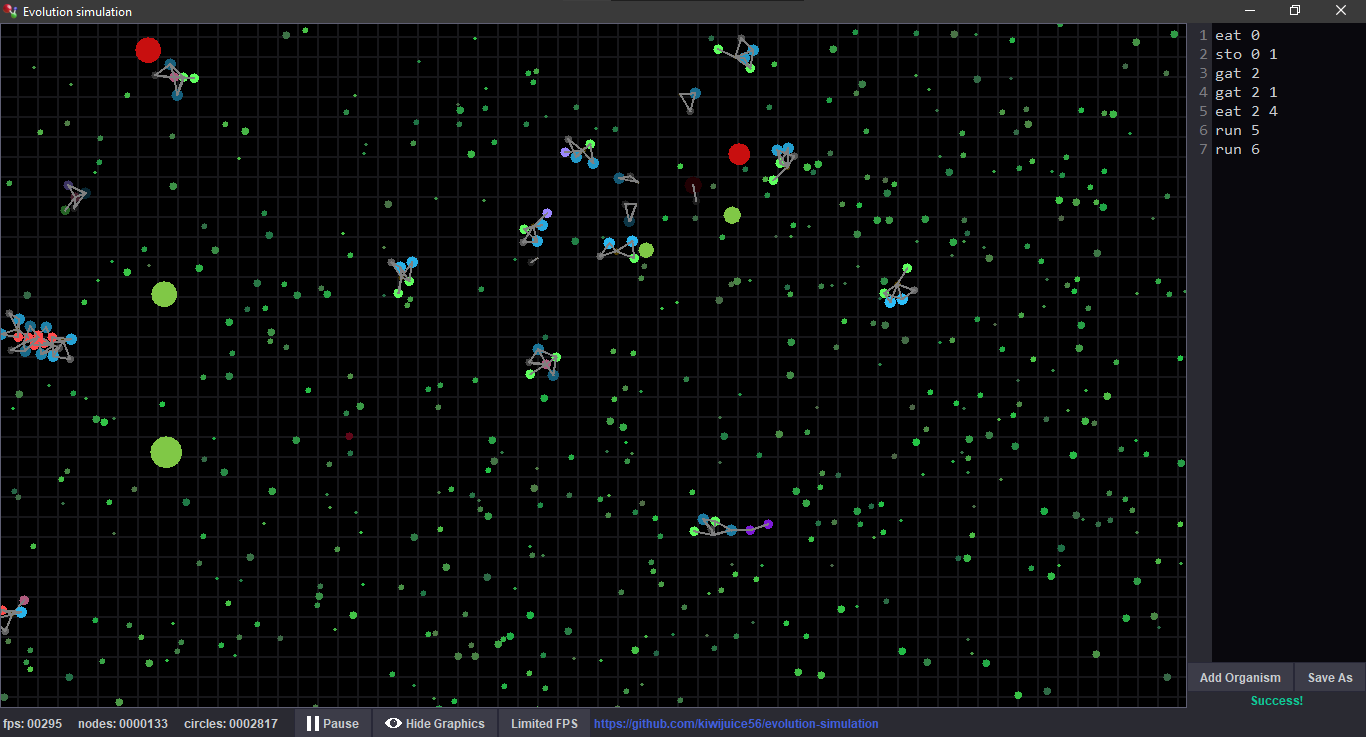
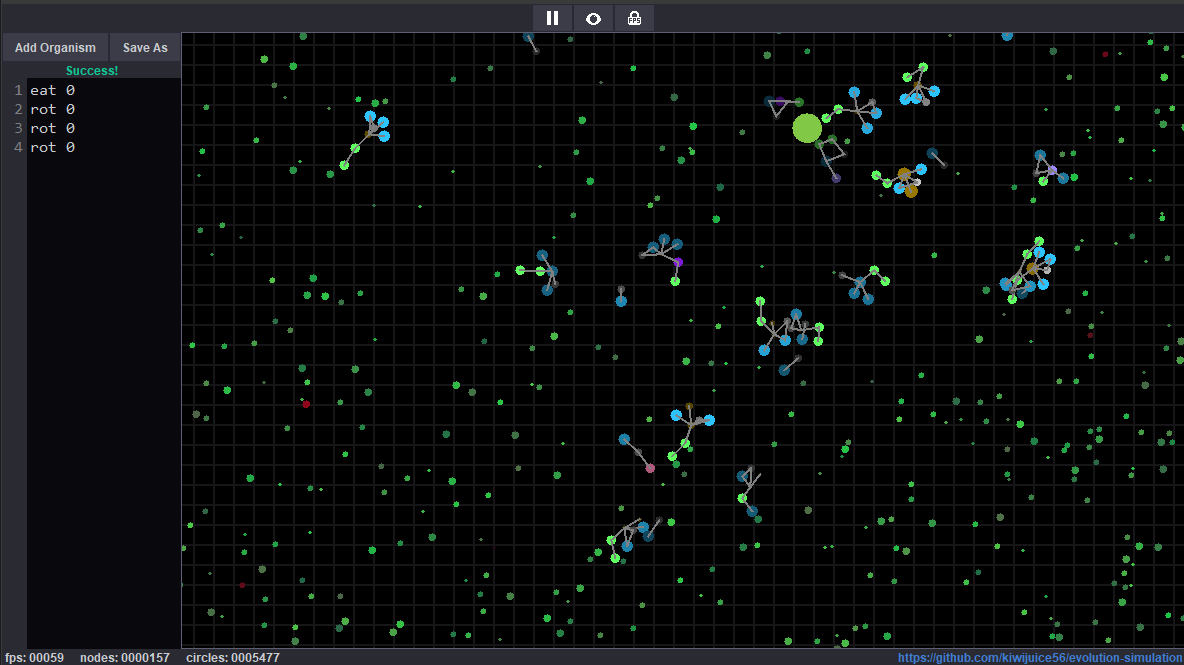
Updated UI and FPS

Changed region(s): [[0.0, 0.0, 1.0, 1.0], [0.9688, 0.5113, 1.0, 0.5414], [0.9375, 0.812, 0.9688, 0.8421]]

diff --git a/src/graphic_interface/ApplicationFrame.java b/src/graphic_interface/ApplicationFrame.java
@@ -13,6 +13,7 @@ import java.io.IOException;
 import java.net.URI;
 import java.net.URISyntaxException;
 import java.util.Arrays;
+import java.util.Objects;
 
 /**
  * Contains all GUI for the program
@@ -43,19 +44,67 @@ public class ApplicationFrame extends JFrame  {
 		GridPanel panel = new GridPanel(grid);
 		getContentPane().add(panel, BorderLayout.CENTER);
 
+		getContentPane().add(createTopPanel(), BorderLayout.NORTH);
 		getContentPane().add(createBottomPanel(), BorderLayout.SOUTH);
 
-		getContentPane().add(new OrganismCreator(panel, sim, grid), BorderLayout.EAST);
+		getContentPane().add(new OrganismCreator(panel, sim, grid), BorderLayout.WEST);
 
 		setSize(1200, 700);
 		setVisible(true);
 	}
 
 	/**
-	 * Initializes bottom panel and all associated labels and buttons
+	 * Initializes top panel and all associated buttons
 	 * @return the initialized panel
 	 */
-	private JPanel createBottomPanel() throws IOException {
+	private JPanel createTopPanel() throws IOException {
+		JPanel topPanel = new JPanel();
+		topPanel.setLayout(new BoxLayout(topPanel, BoxLayout.X_AXIS));
+		topPanel.setBackground(new Color(42, 42, 50));
+
+		topPanel.add(Box.createHorizontalGlue());
+
+		Icon playIcon = new ImageIcon(ImageIO.read(Objects.requireNonNull(ApplicationFrame.class.getResource("/play.png"))));
+		Icon pauseIcon = new ImageIcon(ImageIO.read(Objects.requireNonNull(ApplicationFrame.class.getResource("/pause.png"))));
+		DarkJButton pauseButton = new DarkJButton("");
+		pauseButton.setIcon(pauseIcon);
+		pauseButton.addActionListener(e -> {
+			pauseButton.setIcon(isPaused() ? pauseIcon : playIcon);
+			setPaused(!isPaused());
+		});
+		topPanel.add(pauseButton);
+
+		Icon visibleIcon = new ImageIcon(ImageIO.read(Objects.requireNonNull(ApplicationFrame.class.getResource("/visible.png"))));
+		Icon hiddenIcon = new ImageIcon(ImageIO.read(Objects.requireNonNull(ApplicationFrame.class.getResource("/hidden.png"))));
+		DarkJButton graphicsToggle = new DarkJButton("");
+		graphicsToggle.setIcon(visibleIcon);
+
+		graphicsToggle.addActionListener(e -> {
+			graphicsToggle.setIcon(isGraphicsActive() ? hiddenIcon : visibleIcon);
+			setGraphicsActive(!isGraphicsActive());
+		});
+		topPanel.add(graphicsToggle);
+
+		Icon fpsLockedIcon = new ImageIcon(ImageIO.read(Objects.requireNonNull(ApplicationFrame.class.getResource("/fps_locked.png"))));
+		Icon fpsUnlockedIcon = new ImageIcon(ImageIO.read(Objects.requireNonNull(ApplicationFrame.class.getResource("/fps_unlocked.png"))));
+		DarkJButton fpsToggle = new DarkJButton("");
+		fpsToggle.setIcon(fpsLockedIcon);
+		fpsToggle.addActionListener(e -> {
+			fpsToggle.setIcon(isLimitedFPS() ? fpsUnlockedIcon : fpsLockedIcon);
+			setLimitedFPS(!isLimitedFPS());
+		});
+		topPanel.add(fpsToggle);
+
+		topPanel.add(Box.createHorizontalGlue());
+
+		return topPanel;
+	}
+
+	/**
+	 * Initializes bottom panel and all associated labels
+	 * @return the initialized panel
+	 */
+	private JPanel createBottomPanel() {
 		JPanel bottomPanel = new JPanel();
 		bottomPanel.setLayout(new BoxLayout(bottomPanel, BoxLayout.X_AXIS));
 		bottomPanel.setBackground(new Color(42, 42, 50));
@@ -75,53 +124,9 @@ public class ApplicationFrame extends JFrame  {
 		circleLabel.setBorder(new EmptyBorder(0,0,0,16));
 		bottomPanel.add(circleLabel);
 
-		Icon playIcon = new ImageIcon(ImageIO.read(ApplicationFrame.class.getResource("/pause.png")));
-		Icon pauseIcon = new ImageIcon(ImageIO.read(ApplicationFrame.class.getResource("/pause2.png")));
-		DarkJButton pauseButton = new DarkJButton("Pause");
-		pauseButton.setIcon(pauseIcon);
-		pauseButton.addActionListener(e -> {
-			if (e.getActionCommand().equals("Pause")) {
-				ApplicationFrame.this.setPaused(true);
-				pauseButton.setIcon(playIcon);
-				pauseButton.setText("Play");
-			} else if (e.getActionCommand().equals("Play")) {
-				ApplicationFrame.this.setPaused(false);
-				pauseButton.setIcon(pauseIcon);
-				pauseButton.setText("Pause");
-			}
-		});
-		bottomPanel.add(pauseButton);
+		bottomPanel.add(Box.createHorizontalGlue());
 
-		Icon visibleIcon = new ImageIcon(ImageIO.read(ApplicationFrame.class.getResource("/visible.png")));
-		Icon hiddenIcon = new ImageIcon(ImageIO.read(ApplicationFrame.class.getResource("/hidden.png")));
-		DarkJButton graphicsToggle = new DarkJButton("Hide Graphics");
-		graphicsToggle.setIcon(visibleIcon);
-		graphicsToggle.addActionListener(e -> {
-			if (e.getActionCommand().equals("Hide Graphics")) {
-				graphicsToggle.setIcon(hiddenIcon);
-				ApplicationFrame.this.setGraphicsActive(false);
-				graphicsToggle.setText("Show Graphics");
-			} else if (e.getActionCommand().equals("Show Graphics")) {
-				graphicsToggle.setIcon(visibleIcon);
-				ApplicationFrame.this.setGraphicsActive(true);
-				graphicsToggle.setText("Hide Graphics");
-			}
-		});
-		bottomPanel.add(graphicsToggle);
-
-		DarkJButton fpsToggle = new DarkJButton("Unlimited FPS");
-		fpsToggle.addActionListener(e -> {
-			if (e.getActionCommand().equals("Unlimited FPS")) {
-				ApplicationFrame.this.setLimitedFPS(false);
-				fpsToggle.setText("Limited FPS");
-			} else if (e.getActionCommand().equals("Limited FPS")) {
-				ApplicationFrame.this.setLimitedFPS(true);
-				fpsToggle.setText("Unlimited FPS");
-			}
-		});
-		bottomPanel.add(fpsToggle);
-
-		JLabel link = new JLabel(" https://github.com/kiwijuice56/evolution-simulation");
+		JLabel link = new JLabel(" https://github.com/kiwijuice56/evolution-simulation ");
 		link.setCursor(Cursor.getPredefinedCursor(Cursor.HAND_CURSOR));
 		link.setForeground(new Color(65,125,210));
 		link.addMouseListener(new MouseAdapter() {

diff --git a/src/graphic_interface/OrganismCreator.java b/src/graphic_interface/OrganismCreator.java
@@ -40,6 +40,13 @@ public class OrganismCreator extends JPanel {
 		setLayout(new BoxLayout(this, BoxLayout.Y_AXIS));
 		setBackground(new Color(42, 42, 50));
 
+		add(createEditorButtons());
+
+		errorLabel = new JLabel("Type an organism code");
+		errorLabel.setForeground(new Color(200, 203, 207));
+		errorLabel.setAlignmentX(CENTER_ALIGNMENT);
+		add(errorLabel);
+
 		text = new JTextPane();
 		text.setFont(new Font("Consolas", Font.PLAIN, 16));
 		text.setEditable(true);
@@ -59,12 +66,9 @@ public class OrganismCreator extends JPanel {
 		SimpleAttributeSet attrs = new SimpleAttributeSet();
 		StyleConstants.setForeground(attrs, new Color(200, 203, 207));
 
-		Runnable removeError = new Runnable() {
-			@Override
-			public void run() {
-				errorLabel.setText(" ");
-				text.getStyledDocument().setCharacterAttributes(0, text.getText().length()+1, attrs, true);
-			}
+		Runnable removeError = () -> {
+			errorLabel.setText(" ");
+			text.getStyledDocument().setCharacterAttributes(0, text.getText().length()+1, attrs, true);
 		};
 		text.getDocument().addDocumentListener(new DocumentListener() {
 			@Override
@@ -91,13 +95,6 @@ public class OrganismCreator extends JPanel {
 			}
 		});
 		text.setText("nod 0");
-
-		add(createEditorButtons());
-
-		errorLabel = new JLabel("Type an organism code");
-		errorLabel.setForeground(new Color(200, 203, 207));
-		errorLabel.setAlignmentX(CENTER_ALIGNMENT);
-		add(errorLabel);
 	}
 
 	/**

diff --git a/src/biotic/organic_nodes/RotationalNode.java b/src/biotic/organic_nodes/RotationalNode.java
@@ -8,8 +8,8 @@ import java.awt.Color;
  * Rotates randomly in all directions
  */
 public class RotationalNode extends OrganicNode {
-	private final static double MAX_ANGLE_CHANGE = 0.02;
-	private final static double IMPULSE_STRENGTH = 0.02;
+	private final static double MAX_ANGLE_CHANGE = 0.16;
+	private final static double IMPULSE_STRENGTH = 0.16;
 	private double angle;
 
 	public RotationalNode() {
@@ -21,7 +21,7 @@ public class RotationalNode extends OrganicNode {
 		this.radius = 5.0;
 		this.mass = 3.0;
 		this.color = new Color(175, 90, 125);
-		this.hunger = 0.00045;
+		this.hunger = 0.0036;
 		this.resistance = 1.0;
 		angle = Math.random() * Math.PI;
 	}
@@ -31,7 +31,7 @@ public class RotationalNode extends OrganicNode {
 	 */
 	@Override
 	public void collisionStep() {
-		angle = (angle + Math.random()/50) % (2*Math.PI);
+		angle = (angle + Math.random() * MAX_ANGLE_CHANGE) % (2*Math.PI);
 		setvX(getvX() + Math.cos(angle) * IMPULSE_STRENGTH);
 		setvY(getvY() + Math.sin(angle) * IMPULSE_STRENGTH);
 	}

diff --git a/src/graphic_interface/GridPanel.java b/src/graphic_interface/GridPanel.java
@@ -39,17 +39,18 @@ public class GridPanel extends JPanel implements MouseMotionListener, MouseListe
 	 */
 	@Override
 	public void paintComponent(Graphics g) {
+		Graphics2D g2 = (Graphics2D) g;
+		g2.setStroke(new BasicStroke(2));
+
 		g.setColor(Color.BLACK);
 		g.fillRect(0, 0, width, height);
 
 		// Draws grid lines
 		g.setColor(new Color(22,22,25));
-		Graphics2D g2 = (Graphics2D) g;
-		g2.setStroke(new BasicStroke(2));
 		for (int i = 0; i <= grid.getHeight(); i += grid.getCellSize())
-			g2.drawLine(xOffset, i+getyOffset(), grid.getWidth()+xOffset, i+getyOffset());
+			g.drawLine(xOffset, i+getyOffset(), grid.getWidth()+xOffset, i+getyOffset());
 		for (int j = 0; j <= grid.getWidth(); j += grid.getCellSize())
-			g2.drawLine(j+getxOffset(), grid.getHeight()+yOffset, j+getxOffset(), yOffset);
+			g.drawLine(j+getxOffset(), grid.getHeight()+yOffset, j+getxOffset(), yOffset);
 
 		for (Circle c : new ArrayList<>(grid.getCircles()))
 			if (c != null)

diff --git a/src/biotic/organic_nodes/DirectionalNode.java b/src/biotic/organic_nodes/DirectionalNode.java
@@ -13,11 +13,7 @@ import java.util.Set;
 public abstract class DirectionalNode extends OrganicNode {
 	private final CollisionGrid grid;
 	private final ReproductiveNode root;
-	protected double impulseStrength = 0.035;
-
-	public DirectionalNode(CollisionGrid grid, ReproductiveNode root) {
-		this(grid, root, null, 0, 0, 1.0);
-	}
+	protected double impulseStrength = 0.28;
 
 	public DirectionalNode(CollisionGrid grid, ReproductiveNode root, Node linkedNode, double x, double y, double energy) {
 		super(linkedNode, x, y, energy);

diff --git a/src/biotic/organic_nodes/JitterNode.java b/src/biotic/organic_nodes/JitterNode.java
@@ -8,7 +8,7 @@ import java.awt.Color;
  * Moves randomly in all directions
  */
 public class JitterNode extends OrganicNode {
-	private final static double IMPULSE_STRENGTH = 0.04;
+	private final static double IMPULSE_STRENGTH = 0.32;
 
 	public JitterNode() {
 		this(null, 0, 0, 1.0);
@@ -19,7 +19,7 @@ public class JitterNode extends OrganicNode {
 		this.color = new Color(155, 135, 255);
 		this.radius = 5.0;
 		this.mass = 3.0;
-		this.hunger = 0.00015;
+		this.hunger = 0.0012;
 		this.resistance = 1.0;
 	}
 

diff --git a/src/biotic/producers/VirusProducer.java b/src/biotic/producers/VirusProducer.java
@@ -13,8 +13,8 @@ public class VirusProducer extends Producer {
 	private static final double MASS_MAX = 6;
 	private static final double RADIUS_MIN = 8;
 	private static final double RADIUS_MAX = 16;
-	private static final double VIRUS_SPEED = 0.35;
-	private static final double VIRUS_CHANCE = 0.00075;
+	private static final double VIRUS_SPEED = 2.8;
+	private static final double VIRUS_CHANCE = 0.006;
 
 	public VirusProducer(double x, double y, Simulation sim) {
 		super(x, y, sim);

diff --git a/src/biotic/producers/FoodProducer.java b/src/biotic/producers/FoodProducer.java
@@ -13,8 +13,8 @@ public class FoodProducer extends Producer {
 	private static final double MASS_MAX = 6;
 	private static final double RADIUS_MIN = 8;
 	private static final double RADIUS_MAX = 16;
-	private static final double FOOD_SPEED = 0.35;
-	private static final double FOOD_CHANCE = 0.005;
+	private static final double FOOD_SPEED = 2.8;
+	private static final double FOOD_CHANCE = 0.04;
 
 	public FoodProducer(double x, double y, Simulation sim) {
 		super(x, y, sim);

diff --git a/src/biotic/organic_nodes/EnergyAbsorbingNode.java b/src/biotic/organic_nodes/EnergyAbsorbingNode.java
@@ -9,10 +9,6 @@ public abstract class EnergyAbsorbingNode extends OrganicNode {
 	protected static final double MAX_EXCESS = 2.0;
 	private double excess;
 
-	public EnergyAbsorbingNode() {
-		this(null, 0, 0, 1.0);
-	}
-
 	public EnergyAbsorbingNode(Node linkedNode, double x, double y, double energy) {
 		super(linkedNode, x, y, energy);
 	}

diff --git a/src/main/Main.java b/src/main/Main.java
@@ -11,7 +11,7 @@ import java.util.concurrent.TimeUnit;
  * Main runner of the program, handles frames per second
  */
 public class Main {
-	private static final long MIN_WAIT_PER_FRAME = 2000000;
+	private static final long MIN_WAIT_PER_FRAME = 16000000;
 	public static final int WIDTH = 2400;
 	public static final int HEIGHT = 1800;
 

diff --git a/src/biotic/organic_nodes/RunningNode.java b/src/biotic/organic_nodes/RunningNode.java
@@ -19,9 +19,9 @@ public class RunningNode extends DirectionalNode {
 		this.mass = 2.0;
 		this.radius = 5.0;
 		this.color = new Color(125,25,215);
-		this.hunger = 0.000025;
+		this.hunger = 0.0004;
 		this.resistance = 1.0;
-		this.impulseStrength = -0.035;
+		this.impulseStrength = -0.28;
 	}
 
 	/**

diff --git a/src/biotic/organic_nodes/FollowingNode.java b/src/biotic/organic_nodes/FollowingNode.java
@@ -20,9 +20,9 @@ public class FollowingNode extends DirectionalNode {
 		this.mass = 2.0;
 		this.radius = 5.0;
 		this.color = new Color(255,75,75);
-		this.hunger = 0.000025;
+		this.hunger = 0.0002;
 		this.resistance = 1.0;
-		this.impulseStrength = 0.035;
+		this.impulseStrength = 0.28;
 	}
 
 	/**
